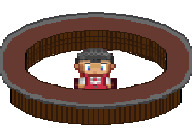
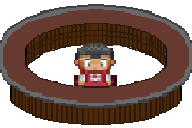
changements du style des batiments, ajout de panneau pour voir le nom du batiment, changement du mouvement du perso

diff --git a/html/casino/core/lobby.js b/html/casino/core/lobby.js
@@ -72,12 +72,39 @@ const HOUSE_IMAGES = {
    style.backgroundImage, donc relatif à lobby.html. */
 const CARPET_IMAGE = "assets/misc/lobby/sol/carpet-rouge.png";
 
+/* Texture des chemins/allées (tuiles "carpet" = code CARPET, les allées
+   verticales sous chaque porte + le boulevard horizontal). Même logique de
+   chemin que CARPET_IMAGE : résolu en JS via style.backgroundImage, donc
+   relatif à lobby.html. */
+const PATH_IMAGE = "assets/misc/lobby/sol/chemin.png";
+
+/* Texture de contour, à superposer sur chaque tuile de chemin/allée pour
+   dessiner une bordure tout autour du réseau de chemins. Même logique de
+   chemin que les autres : résolu en JS via style.backgroundImage, donc
+   relatif à lobby.html. */
+const CONTOUR_IMAGE = "assets/misc/lobby/sol/contour.png";
+
 /* Décorations en image (au lieu d'un simple emoji). Même principe : chemin
    résolu relativement à lobby.html. */
 const DECO_IMAGE_BASE = "assets/misc/lobby/deco/";
 const DECO_IMAGES = {
   slot: "slot-deco.png",
   plant: "plant-deco.png",
+};
+
+/* Panneau décoratif posé au pied de certains bâtiments, à gauche ou à
+   droite selon la maison. Même logique de chemin que les autres images :
+   résolu en JS via style.backgroundImage, donc relatif à lobby.html. */
+const SIGN_IMAGE = "assets/misc/lobby/deco/panneau.png";
+const SIGN_SIDE = {
+  blackjack: "left",
+  roulette: "left",
+  arcade: "left",
+  baccara: "left",
+  poker: "right",
+  slots: "right",
+  "future-right": "right",
+  "future-bottom-2": "right",
 };
 
 function buildGrid(width, height) {
@@ -238,20 +265,40 @@ for (let y = 0; y < HEIGHT; y++) {
       const dx = x - place.x;
       const dy = y - place.y;
       div.classList.add('has-image');
-      div.style.backgroundImage = `url("${HOUSE_IMAGE_BASE}${houseImg}")`;
-      div.style.backgroundSize = `${place.width * TILE}px ${2 * TILE}px`;
-      div.style.backgroundPosition = `${-dx * TILE}px ${-dy * TILE}px`;
+      // Deux couches : l'image du bâtiment par-dessus, le tapis rouge en dessous
+      // (visible partout où l'image du bâtiment est transparente ou ne couvre pas la case).
+      div.style.backgroundImage = `url("${HOUSE_IMAGE_BASE}${houseImg}"), url("${CARPET_IMAGE}")`;
+      div.style.backgroundSize = `${place.width * TILE}px ${2 * TILE}px, ${TILE}px ${TILE}px`;
+      div.style.backgroundPosition = `${-dx * TILE}px ${-dy * TILE}px, top left`;
+      div.style.backgroundRepeat = 'no-repeat, no-repeat';
     }
 
-    if (type.kind === "door") {
+    if (type.kind === "wall") {
+      div.classList.add('has-image');
+      div.style.backgroundImage = `url("${CONTOUR_IMAGE}")`;
+      div.style.backgroundSize = `${TILE}px ${TILE}px`;
+    } else if (type.kind === "door") {
       const iconHtml = houseImg ? '' : `<span class="icon">${type.icon}</span>`;
       div.innerHTML = `<span class="label">${type.label}</span>${iconHtml}`;
+      if (houseImg) {
+        // dy = nombre de tuiles au-dessus de la porte DANS ce bâtiment précis
+        // (1 pour une maison classique toit+porte, 0 pour le bar dont la porte
+        // est déjà sur la rangée du haut). On remonte le label d'exactement
+        // ce qu'il faut pour dégager tout le bâtiment, jamais plus.
+        const dy = y - place.y;
+        const label = div.querySelector('.label');
+        label.style.top = `calc(-1 * ${dy} * var(--tile-size) - 26px)`;
+      }
     } else if (type.kind === "roof") {
       const centerX = place.x + Math.floor(place.width / 2);
       div.innerHTML = (!houseImg && x === centerX) ? `<span class="icon">${type.icon}</span>` : '';
     } else if (type.kind === "floor") {
       div.classList.add('has-image');
       div.style.backgroundImage = `url("${CARPET_IMAGE}")`;
+      div.style.backgroundSize = `${TILE}px ${TILE}px`;
+    } else if (type.kind === "carpet") {
+      div.classList.add('has-image');
+      div.style.backgroundImage = `url("${PATH_IMAGE}")`;
       div.style.backgroundSize = `${TILE}px ${TILE}px`;
     } else if (type.kind === "deco") {
       if (type.image) {
@@ -271,6 +318,23 @@ for (let y = 0; y < HEIGHT; y++) {
     mapEl.appendChild(div);
   }
 }
+
+/* ---------- Panneaux décoratifs au pied des bâtiments ---------- */
+ALL_HOUSES.forEach(house => {
+  const side = SIGN_SIDE[house.key];
+  if (!side) return;
+  // Rangée du bas du bâtiment (façade/porte) : y du toit + 1, sauf pour le
+  // bar dont la disposition est inversée (porte en haut) — non concerné ici.
+  const bottomRowY = house.y + 1;
+  const cornerX = side === "left" ? house.x : house.x + house.width - 1;
+
+  const sign = document.createElement('div');
+  sign.className = `building-sign sign-${side}`;
+  sign.style.left = `${cornerX * TILE}px`;
+  sign.style.top = `${bottomRowY * TILE}px`;
+  sign.style.backgroundImage = `url("${SIGN_IMAGE}")`;
+  mapEl.appendChild(sign);
+});
 
 
 /* ---------- État du joueur ---------- */

diff --git a/html/casino/core/lobby.css b/html/casino/core/lobby.css
@@ -13,7 +13,7 @@
   --tile-size: 64px;
   --player-x: 0;
   --player-y: 0;
-  --moving-speed: 180ms;
+  --moving-speed: 220ms;
 
   /* --- Sprite du joueur (façon vieux Pokémon) --- */
   /* --player-sprite-v : ligne du spritesheet = direction (0 bas, -1 haut, -2 gauche, -3 droite) */
@@ -169,13 +169,11 @@ html, body {
   filter: grayscale(1) brightness(0.8);
 }
 .tile.door.has-image .label {
-  /* Place l'étiquette DANS la zone vide réservée en haut de l'image du
-     bâtiment (le "cadre rouge"), au lieu de flotter au-dessus.
-     -26px = comportement par défaut (juste au-dessus de la tuile porte).
-     Plus la valeur est négative, plus l'étiquette remonte vers le haut de
-     l'image (le toit) ; plus elle se rapproche de 0, plus elle descend vers
-     la porte. Ajuste ce chiffre pour coller pile à ta zone réservée. */
-  top: -48px;
+  /* Décalage par défaut (identique aux portes sans image) ; le vrai
+     positionnement, qui dépend de la hauteur du bâtiment au-dessus de la
+     porte, est calculé au cas par cas en JS (voir buildHouse / rendu de la
+     grille) et posé en inline-style sur chaque label. */
+  top: -26px;
 }
 
 .tile.deco {
@@ -187,6 +185,15 @@ html, body {
 .tile.deco .icon {
   font-size: 26px;
   opacity: 0.85;
+}
+
+/* Panneau interactif au pied de certains bâtiments : même rendu qu'une
+   déco (image posée sur le sol), mais bloque le passage (comme un mur) et
+   affiche son texte via le système générique de collision. Le mirroring
+   fait que le panneau "regarde" vers le bâtiment selon le côté où il est
+   posé (voir SIGN_SIDE en JS). */
+.tile.sign-flip {
+  transform: scaleX(-1);
 }
 
 /* ============================================================

diff --git a/README.md b/README.md
@@ -382,6 +382,62 @@ Pour ajouter une nouvelle maison :
 6. Le pathfinding (Dijkstra) et les collisions se recalculent automatiquement à
    partir de `colliders` : pas besoin de toucher à `PathFind`.
 
+### 5.1 Textures de sol (`core/lobby.js`)
+
+Trois textures distinctes, chacune résolue en JS via `style.backgroundImage`
+donc **relative à `lobby.html`** (pas à `lobby.css`, contrairement à un `url()`
+écrit directement dans le CSS) :
+
+| Constante | Fichier attendu | Appliquée à |
+|---|---|---|
+| `CARPET_IMAGE` | `assets/misc/lobby/sol/carpet-rouge.png` | sol nu (`kind: "floor"`, code `0`) — sert aussi de fond sous les images de bâtiments et de décos, visible dès que l'image a des zones transparentes |
+| `PATH_IMAGE` | `assets/misc/lobby/sol/chemin.png` | allées + boulevard (`kind: "carpet"`, code `CARPET = 2`) |
+| `CONTOUR_IMAGE` | `assets/misc/lobby/sol/contour.png` | murs du pourtour de la carte (`kind: "wall"`, code `1`) |
+
+⚠ Piège : `CARPET_IMAGE` désigne le sol nu, pas les allées en tapis — le nom
+prête à confusion mais remonte à l'historique du fichier (l'ancien tapis rouge
+couvrait aussi bien le sol que les allées). `PATH_IMAGE` est la vraie texture
+du "chemin".
+
+### 5.2 Panneaux interactifs au pied des bâtiments (`SIGN_SIDE`)
+
+Certains bâtiments ont un panneau (`assets/misc/lobby/deco/panneau.png`) posé
+au sol juste devant, une case sous la façade, à gauche ou à droite selon
+`SIGN_SIDE` :
+```js
+const SIGN_SIDE = {
+  blackjack: "left", roulette: "left", arcade: "left", baccara: "left",
+  poker: "right", slots: "right", "future-right": "right", "future-bottom-2": "right",
+};
+```
+- C'est une **vraie tuile de la grille** (comme une porte ou une déco), pas un
+  simple visuel flottant : elle bloque le passage (`collide: true`) et affiche
+  son texte (le nom du jeu) dans la popup du bas via le système générique de
+  collision — même mécanisme que les portes, rien à coder en plus.
+- Un panneau côté "right" est retourné horizontalement en CSS (`.sign-flip`,
+  `transform: scaleX(-1)`) pour qu'il semble "regarder" vers le bâtiment.
+- Le bar n'a volontairement pas de panneau (absent de `SIGN_SIDE`).
+- Pas de garde-fou automatique : ajouter une maison à `SIGN_SIDE` sans
+  vérifier que la case calculée (une sous la façade, à gauche/droite) tombe
+  bien sur du sol libre — sinon elle écrase silencieusement une autre tuile
+  (allée, déco...).
+- Le nom du bâtiment ne flotte plus au-dessus de la porte (l'ancien `<span
+  class="label">`) : le panneau a repris ce rôle. Les règles CSS
+  `.tile.door .label` / `.tile.door.has-image .label` existent encore dans
+  `lobby.css` mais ne sont plus utilisées par le rendu JS.
+
+### 5.3 Vitesse de déplacement : deux valeurs à garder synchronisées
+
+Le déplacement case par case combine un `setInterval` en JS et une transition
+CSS :
+- `delay` (JS, `core/lobby.js`, actuellement `220`) : temps entre deux cases.
+- `--moving-speed` (CSS, `core/lobby.css`, actuellement `220ms`) : durée du
+  glissement visuel du joueur.
+
+Ces deux valeurs **doivent rester égales**. Si `--moving-speed` est plus
+courte que `delay`, le perso finit son glissement avant que la case suivante
+ne démarre → micro-arrêt visible à chaque pas.
+
 ---
 
 ## 6. Maison-menu avec sous-jeux — exemple de référence : Arcade
